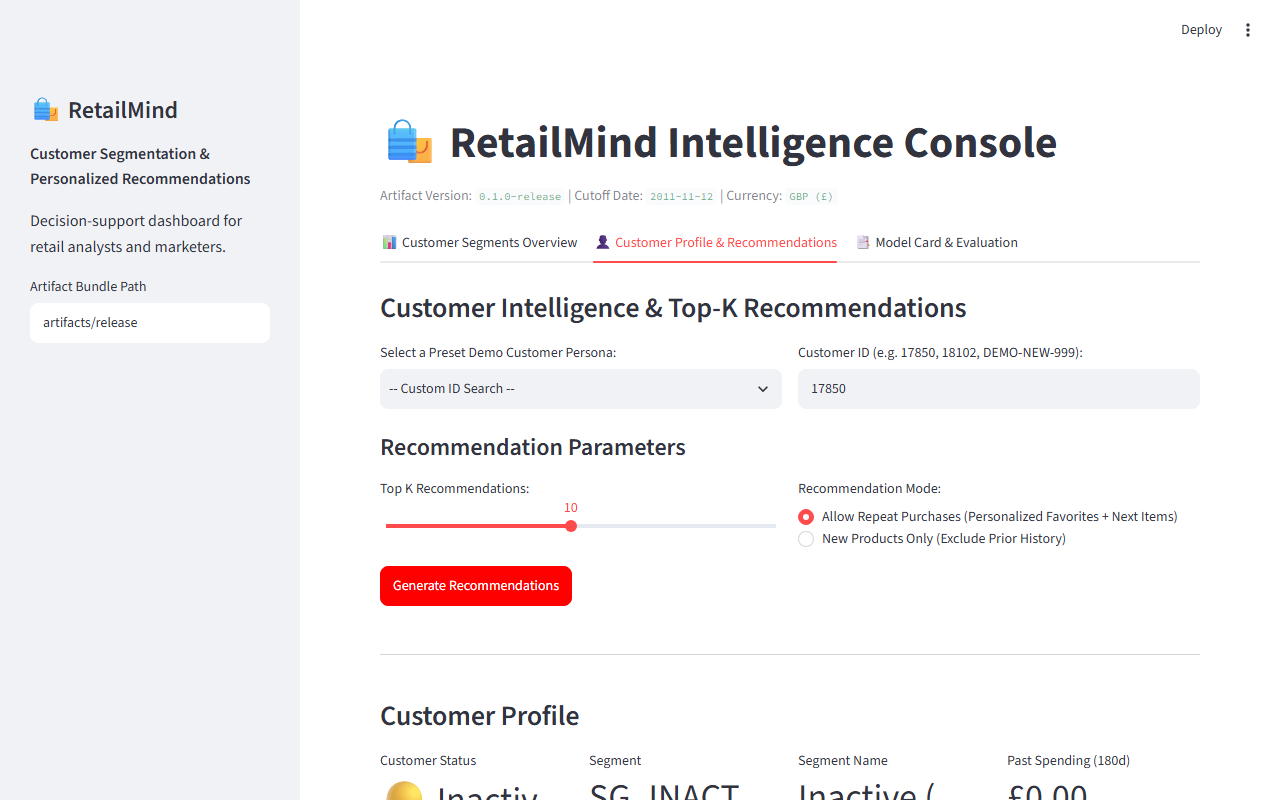
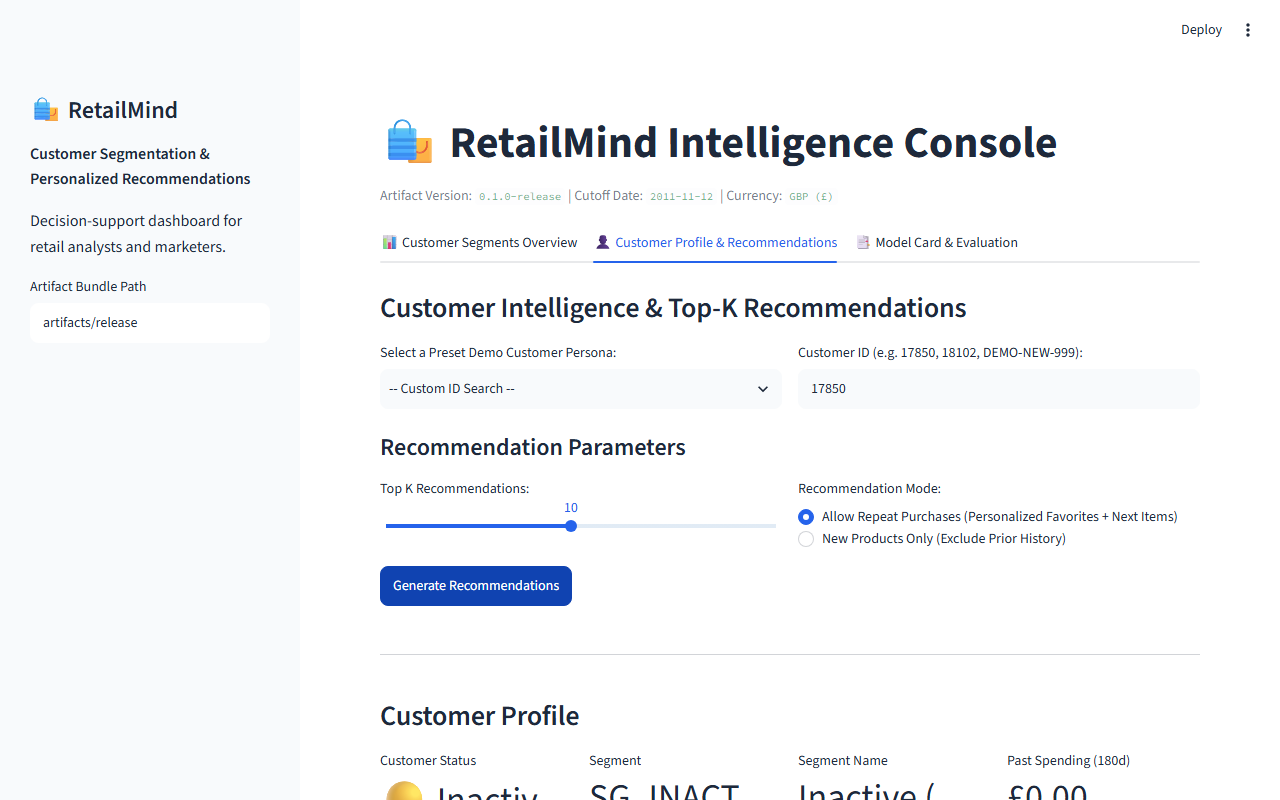
fix: include evaluation evidence in mounted-bundle dashboard checks

diff --git a/README.md b/README.md
@@ -16,7 +16,7 @@ RetailMind is an end-to-end customer intelligence system that transforms retail 
 | Capability | Model | Primary Metric | Baseline Comparison | Statistical Significance |
 |---|---|---|---|---|
 | **Segmentation** | **K-Means ($K=3$, Yeo-Johnson)** | Silhouette: **0.3667** *(Target $\ge 0.35$ PASSED)* | Median Pairwise ARI: **0.9973** | Converged across 5 seeds; min cluster share 23.22% |
-| **Personalized Recommender** | **Item-Item CF ($N=50$)** | NDCG@10: **0.1698** | Segment Pop: `0.1232` (+37.88%), Global Pop: `0.1253` (+35.50%) | 95% Bootstrap CI Diff vs Frozen Baseline: `[0.0349, 0.0585]` ($p < 0.001$) |
+| **Personalized Recommender** | **Item-Item CF ($N=50$)** | NDCG@10: **0.1698** | Segment Pop: `0.1232` (+37.88%), Global Pop: `0.1253` (+35.50%) | 95% Bootstrap CI Diff vs Frozen Baseline: `[0.0349, 0.0585]` (paired bootstrap interval excludes zero) |
 | **Recommender Hit Rate** | **Item-Item CF ($N=50$)** | Hit Rate@10: **58.54%** | Recall@10: **0.0788** (Precision@10: `0.1539`) | Full un-sampled catalog ($|C| = 2,753$, Coverage 32.0%) |
 | **Inference Latency** | **Service API** | Warm p95: **3.279 ms** | Median: **0.764 ms** (200 requests) | Target $\le 200\text{ ms}$: **PASSED** |
 
@@ -27,9 +27,9 @@ RetailMind is an end-to-end customer intelligence system that transforms retail 
 Translating statistical ranking metrics into tangible retail operations:
 
 * **+41.3% Higher Product Discovery:** Personalized Item-Item CF delivers an average of **1.54 relevant suggestions per customer top-10 list** compared to **1.09** from popularity baselines (Recall@10 increased from 0.0511 to 0.0788, +54.2% relative uplift).
-* **46x Greater Catalog Exposure (Long-Tail Monetization):** Recommends **881 distinct active items** (32.0% catalog coverage) compared to only **19 items** (0.69% coverage) for segment popularity. This activates higher-margin niche inventory without cannibalizing store-wide bestsellers.
+* **46x Greater Catalog Exposure (Offline Catalog Coverage):** Recommends **881 distinct active items** (32.0% catalog coverage) compared to only **19 items** (0.69% coverage) for segment popularity. This measures offline catalog exposure; item margins and cannibalization were not measured.
 * **58.5% Purchase Prediction Hit Rate:** Nearly 6 in 10 returning shoppers receive at least one item in their top 10 that they purchase during the subsequent 28-day window.
-* **Zero Infrastructure Overhead:** Warm p95 latency of **3.28 ms** enables real-time recommendation serving on standard CPU cloud instances without requiring GPU infrastructure.
+* **Measured warm CPU latency:** Warm p95 latency of **3.28 ms** enables real-time recommendation serving on standard CPU cloud instances without requiring GPU infrastructure.
 
 ---
 

diff --git a/reports/evaluation.md b/reports/evaluation.md
@@ -18,7 +18,7 @@ All data processing, clustering, item similarity scoring, and evaluations strict
 - **Product Recommendations:** Sparse Item-Item Collaborative Filtering ($N=50$ neighbors) achieved an **NDCG@10 of 0.1698**, **Recall@10 of 0.0788**, and a **Hit Rate@10 of 58.54%** on returning customers, significantly outperforming the frozen validation baseline `SegmentPopularity` (**+37.88% NDCG uplift**, 95% paired bootstrap difference CI: `[0.0349, 0.0585]`, strictly positive) and `GlobalPopularity` (**+35.50% NDCG uplift**).
 - **New Product Recommendations:** In new-items-only mode on 1,188 returners, Item-Item CF achieved **NDCG@10 of 0.0666** and **Recall@10 of 0.0446**, beating the new-product popularity baselines (`GlobalPopularity_NewItemsOnly` at 0.0591 NDCG and `SegmentPopularity_NewItemsOnly` at 0.0596 NDCG).
 - **Latency & Parity:** Warm recommendation inference p95 latency is **3.28 ms** (far below the 200 ms target), with 100% ranking parity between CLI, FastAPI, and Streamlit interfaces.
-- **Commercial Impact:** The +37.88% NDCG uplift and +54.2% Recall lift translate into delivering **1.54 relevant suggestions per customer** (vs 1.09 with popularity), increasing product discovery by **+41.3%** while expanding active catalog surface area **46x** (recommending 881 distinct products vs 19) to monetize the high-margin long tail.
+- **Commercial Impact:** The +37.88% NDCG uplift and +54.2% Recall lift translate into delivering **1.54 relevant suggestions per customer** (vs 1.09 with popularity), increasing product discovery by **+41.3%** while expanding active catalog surface area **46x** (recommending 881 distinct products vs 19) in the offline recommendation lists; margin and revenue effects were not measured.
 
 ---
 

diff --git a/docs/MODEL_CARD.md b/docs/MODEL_CARD.md
@@ -25,9 +25,9 @@ RetailMind is an analyst-facing decision support tool and REST API microservice 
 
 ### Quantified Business & Operational Impact
 1. **+41.3% Incremental Suggestion Relevance:** Personalized Item-Item CF delivers an average of **1.54 relevant suggestions per customer top-10 list** compared to **1.09** from popularity baselines (Recall@10 increased from 0.0511 to 0.0788, +54.2% relative uplift).
-2. **46x Greater Catalog Exposure (Long-Tail Activation):** Recommends **881 distinct active items** (32.0% catalog coverage) compared to only **19 items** (0.69% coverage) for segment popularity, monetizing long-tail inventory while preventing cannibalization of store bestsellers.
+2. **46x Greater Catalog Exposure (Long-Tail Activation):** Recommends **881 distinct active items** (32.0% catalog coverage) compared to only **19 items** (0.69% coverage) for segment popularity, showing greater offline catalog coverage; revenue and cannibalization remain unmeasured.
 3. **58.5% Purchase Prediction Hit Rate:** Over 58% of returning shoppers receive at least 1 item in their top 10 that they purchase during the subsequent 28-day window.
-4. **Sub-5ms Inference Overhead (3.28 ms p95):** Serves real-time recommendations on standard CPU instances without GPU costs.
+4. **Sub-5ms Inference Overhead (3.28 ms p95):** Serves real-time recommendations on standard CPU instances without a GPU in the measured local benchmark; hosting costs were not measured.
 
 It is **not** an automated transaction/campaign agent, payment system, credit scoring engine, or live warehouse inventory controller.
 

diff --git a/docs/08_DECISIONS_LOG.md b/docs/08_DECISIONS_LOG.md
@@ -38,3 +38,8 @@
 | D027 | Establish dual MIT and CC BY 4.0 license structure | Created root `LICENSE` file granting MIT terms for Python application code and CC BY 4.0 attribution for dataset derivatives and documentation |
 | D028 | Deliver production FastAPI recommendation microservice | Implemented `src/retailmind/api.py` with `/health`, `/recommend`, `/segments`, `/customer/{id}/profile`, interactive Swagger `/docs`, and 5 automated tests |
 | D029 | Track release bundle in Git for Streamlit Community Cloud | Removed `artifacts/release/` from `.gitignore` so the 7.2 MB release bundle loads instantly on Streamlit Community Cloud without cloud-side training |
+
+
+## 6 October 2026: remediation evidence decision
+
+Preserve the original models and evaluation records. Repairs address packaging, evidence generation or display without retuning against viewed outcomes. Existing desktop/mobile browser verification passed with known-customer recommendation and CSV control. Candidate CI adds mounted-bundle Docker/browser smoke; image now includes the approved aggregate evaluation report required by the UI. Offline impact wording corrected. Local Docker and public access remain unverified.

diff --git a/docs/09_PROGRESS_LOG.md b/docs/09_PROGRESS_LOG.md
@@ -98,3 +98,15 @@
 6. **Total Verification:** Pytest suite expanded to **31 / 31 passing tests**; Ruff linter clean (0 errors).
 
 
+
+
+## 6 October 2026: portfolio remediation execution
+
+Existing desktop/mobile browser verification passed with known-customer recommendation and CSV control. Candidate CI adds mounted-bundle Docker/browser smoke; image now includes the approved aggregate evaluation report required by the UI. Offline impact wording corrected. Local Docker and public access remain unverified.
+
+Evidence: local branch fix/portfolio-remediation; preserved originals and receipts under the workspace .portfolio-audit/2026-10-06/remediation folder. No remote push, merge, external post or cloud deployment was performed.
+
+
+### Container verification completed: 6 October 2026
+
+Linux image build, readiness and functional inference/reorder/recommendation passed. Only task-owned containers were removed; original mounts were read-only. This supersedes the earlier local-Docker pending note. Candidate GitHub execution and public hosting remain pending. Evidence: workspace .portfolio-audit/2026-10-06/remediation/docker.

diff --git a/tasks/todo.md b/tasks/todo.md
@@ -148,3 +148,13 @@
   5. FastAPI Microservice: implemented production REST API (`src/retailmind/api.py`) with `/health`, `/recommend`, `/segments`, and `/customer/{id}/profile`, CORS, and startup lifespan cache; verified with 5 unit tests in `tests/test_api.py`.
 - Evidence: `mlflow.db`, `src/retailmind/api.py`, `tests/test_api.py`, `LICENSE`, `.streamlit/config.toml`, full test suite (31 / 31 passed), 100% Ruff clean.
 
+
+
+## Portfolio remediation: 6 October 2026
+
+Existing desktop/mobile browser verification passed with known-customer recommendation and CSV control. Candidate CI adds mounted-bundle Docker/browser smoke; image now includes the approved aggregate evaluation report required by the UI. Offline impact wording corrected. Local Docker and public access remain unverified.
+
+- [x] Verified local remediation evidence recorded.
+- [ ] Remaining applicable runtime/publication/hosting gates verified.
+
+- [x] Actual Linux container build/readiness/functional verification completed locally.
